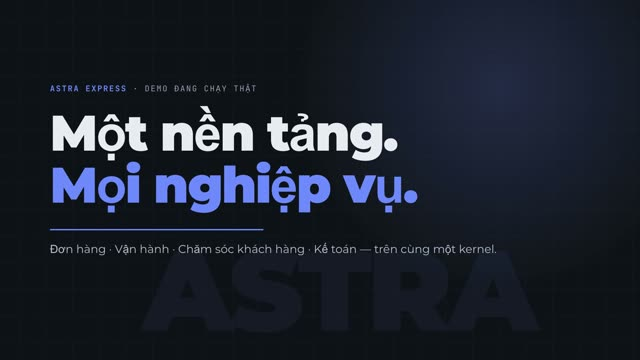
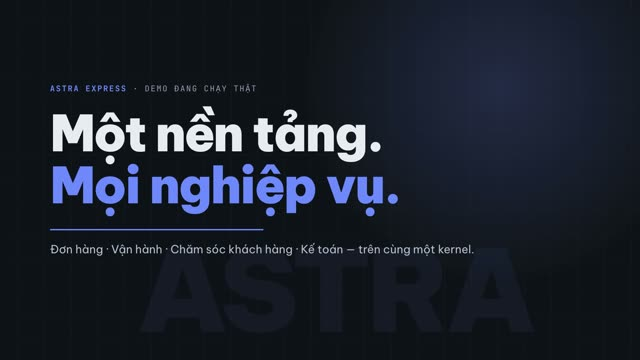
docs(video): Vietnamese voice-over, Be Vietnam Pro font and regenerated thumbnails for all videos
Every demo video now has a male Vietnamese voice-over (VieNeu-TTS v3 Turbo, voice Xuân Vĩnh) generated by scripts/video-voiceover.py from the per-video narration.json, and the on-screen font is Be Vietnam Pro throughout so diacritics render correctly. Thumbnails are regenerated from the new renders; the README and series doc drop the no-narration note and credit the voice.

Changed region(s): [[0.0938, 0.275, 0.6562, 0.6111], [0.0625, 0.6722, 0.7812, 0.7028]]

diff --git a/scripts/video-voiceover.py b/scripts/video-voiceover.py
@@ -1,0 +1,65 @@
+#!/usr/bin/env python3
+"""Add a Vietnamese voice-over (VieNeu-TTS, voice "Xuân Vĩnh") to a HyperFrames video project.
+
+Usage: video-voiceover.py <video-dir> [--max-overrun 0]
+
+Reads <video-dir>/narration.json ({scene-id: text}), synthesizes one clip per scene into
+<video-dir>/assets/voice/<scene-id>.mp3, and rewrites the <audio id="vo-*"> tags in index.html
+so each clip starts 0.6 s into its scene. Fails when a clip does not fit its scene, so the text
+can be shortened instead of the audio being cut. Requires: pip install vieneu soundfile; ffmpeg.
+"""
+import json
+import pathlib
+import re
+import subprocess
+import sys
+
+VOICE = "Xuân Vĩnh"
+LEAD_IN = 0.6   # seconds of silence before the voice enters a scene
+TAIL = 0.8      # seconds the scene must keep after the voice ends
+BGM_VOLUME = 0.28
+
+video = pathlib.Path(sys.argv[1]).resolve()
+narration = json.loads((video / "narration.json").read_text())
+index = video / "index.html"
+html = index.read_text()
+
+scenes = {}
+for m in re.finditer(r'<div[^>]*data-composition-src="compositions/frames/([\w-]+)\.html"[^>]*?data-start="([\d.]+)"[^>]*?data-duration="([\d.]+)"', html):
+    scenes[m.group(1)] = (float(m.group(2)), float(m.group(3)))
+
+missing = [s for s in narration if s not in scenes]
+if missing:
+    sys.exit(f"narration scenes not in index.html: {missing}")
+
+from vieneu import Vieneu  # noqa: E402
+
+tts = Vieneu(mode="v3turbo")
+out = video / "assets" / "voice"
+out.mkdir(parents=True, exist_ok=True)
+
+tags, problems = [], []
+for scene, text in narration.items():
+    start, dur = scenes[scene]
+    wav = out / f"{scene}.wav"
+    tts.save(tts.infer(text, voice=VOICE), str(wav))
+    mp3 = out / f"{scene}.mp3"
+    subprocess.run(["ffmpeg", "-v", "error", "-y", "-i", str(wav), "-ac", "1", "-b:a", "128k", str(mp3)], check=True)
+    wav.unlink()
+    length = float(subprocess.check_output(
+        ["ffprobe", "-v", "error", "-show_entries", "format=duration", "-of", "csv=p=0", str(mp3)]))
+    room = dur - LEAD_IN - TAIL
+    flag = "" if length <= room else f"  <-- TOO LONG by {length - room:.1f}s"
+    print(f"{scene:16s} voice {length:5.1f}s / room {room:5.1f}s{flag}")
+    if flag:
+        problems.append(scene)
+    tags.append(
+        f'      <audio id="vo-{scene}" src="assets/voice/{scene}.mp3" data-start="{start + LEAD_IN:g}" '
+        f'data-duration="{min(length + 0.1, dur - LEAD_IN):.2f}" data-track-index="2" data-volume="1"></audio>')
+
+html = re.sub(r'\n[ ]*<audio id="vo-[^>]*></audio>', "", html)
+block = "\n      <!-- Voice-over: VieNeu-TTS v3 Turbo, voice \"Xuân Vĩnh\"; text in narration.json. -->\n" + "\n".join(tags)
+html = re.sub(r'(<audio[^>]*id="bgm"[^>]*></audio>)', lambda m: m.group(1) + block, html, count=1)
+html = re.sub(r'(<audio[^>]*id="bgm"[^>]*data-volume=")[\d.]+(")', rf"\g<1>{BGM_VOLUME}\2", html, count=1)
+index.write_text(html)
+sys.exit(1 if problems else 0)

diff --git a/docs/demo-video-series.md b/docs/demo-video-series.md
@@ -9,6 +9,8 @@ toàn bộ phạm vi của use-case. Các video về cơ chế nền tảng (9, 
 
 Nhạc nền của các video: "Corporate Tower" của Mare Production ([freesound.org/s/612264](https://freesound.org/s/612264/)), CC BY 4.0, đã cắt ghép.
 
+Giọng đọc tiếng Việt: giọng nam "Xuân Vĩnh" của [VieNeu-TTS](https://github.com/pnnbao97/VieNeu-TTS) v3 Turbo (Apache-2.0), tổng hợp bằng `scripts/video-voiceover.py` từ file `narration.json` trong từng thư mục video. Font: Be Vietnam Pro (SIL OFL 1.1) cho chữ thường, JetBrains Mono cho mã.
+
 ---
 
 ## 1. Chuẩn bị môi trường quay
